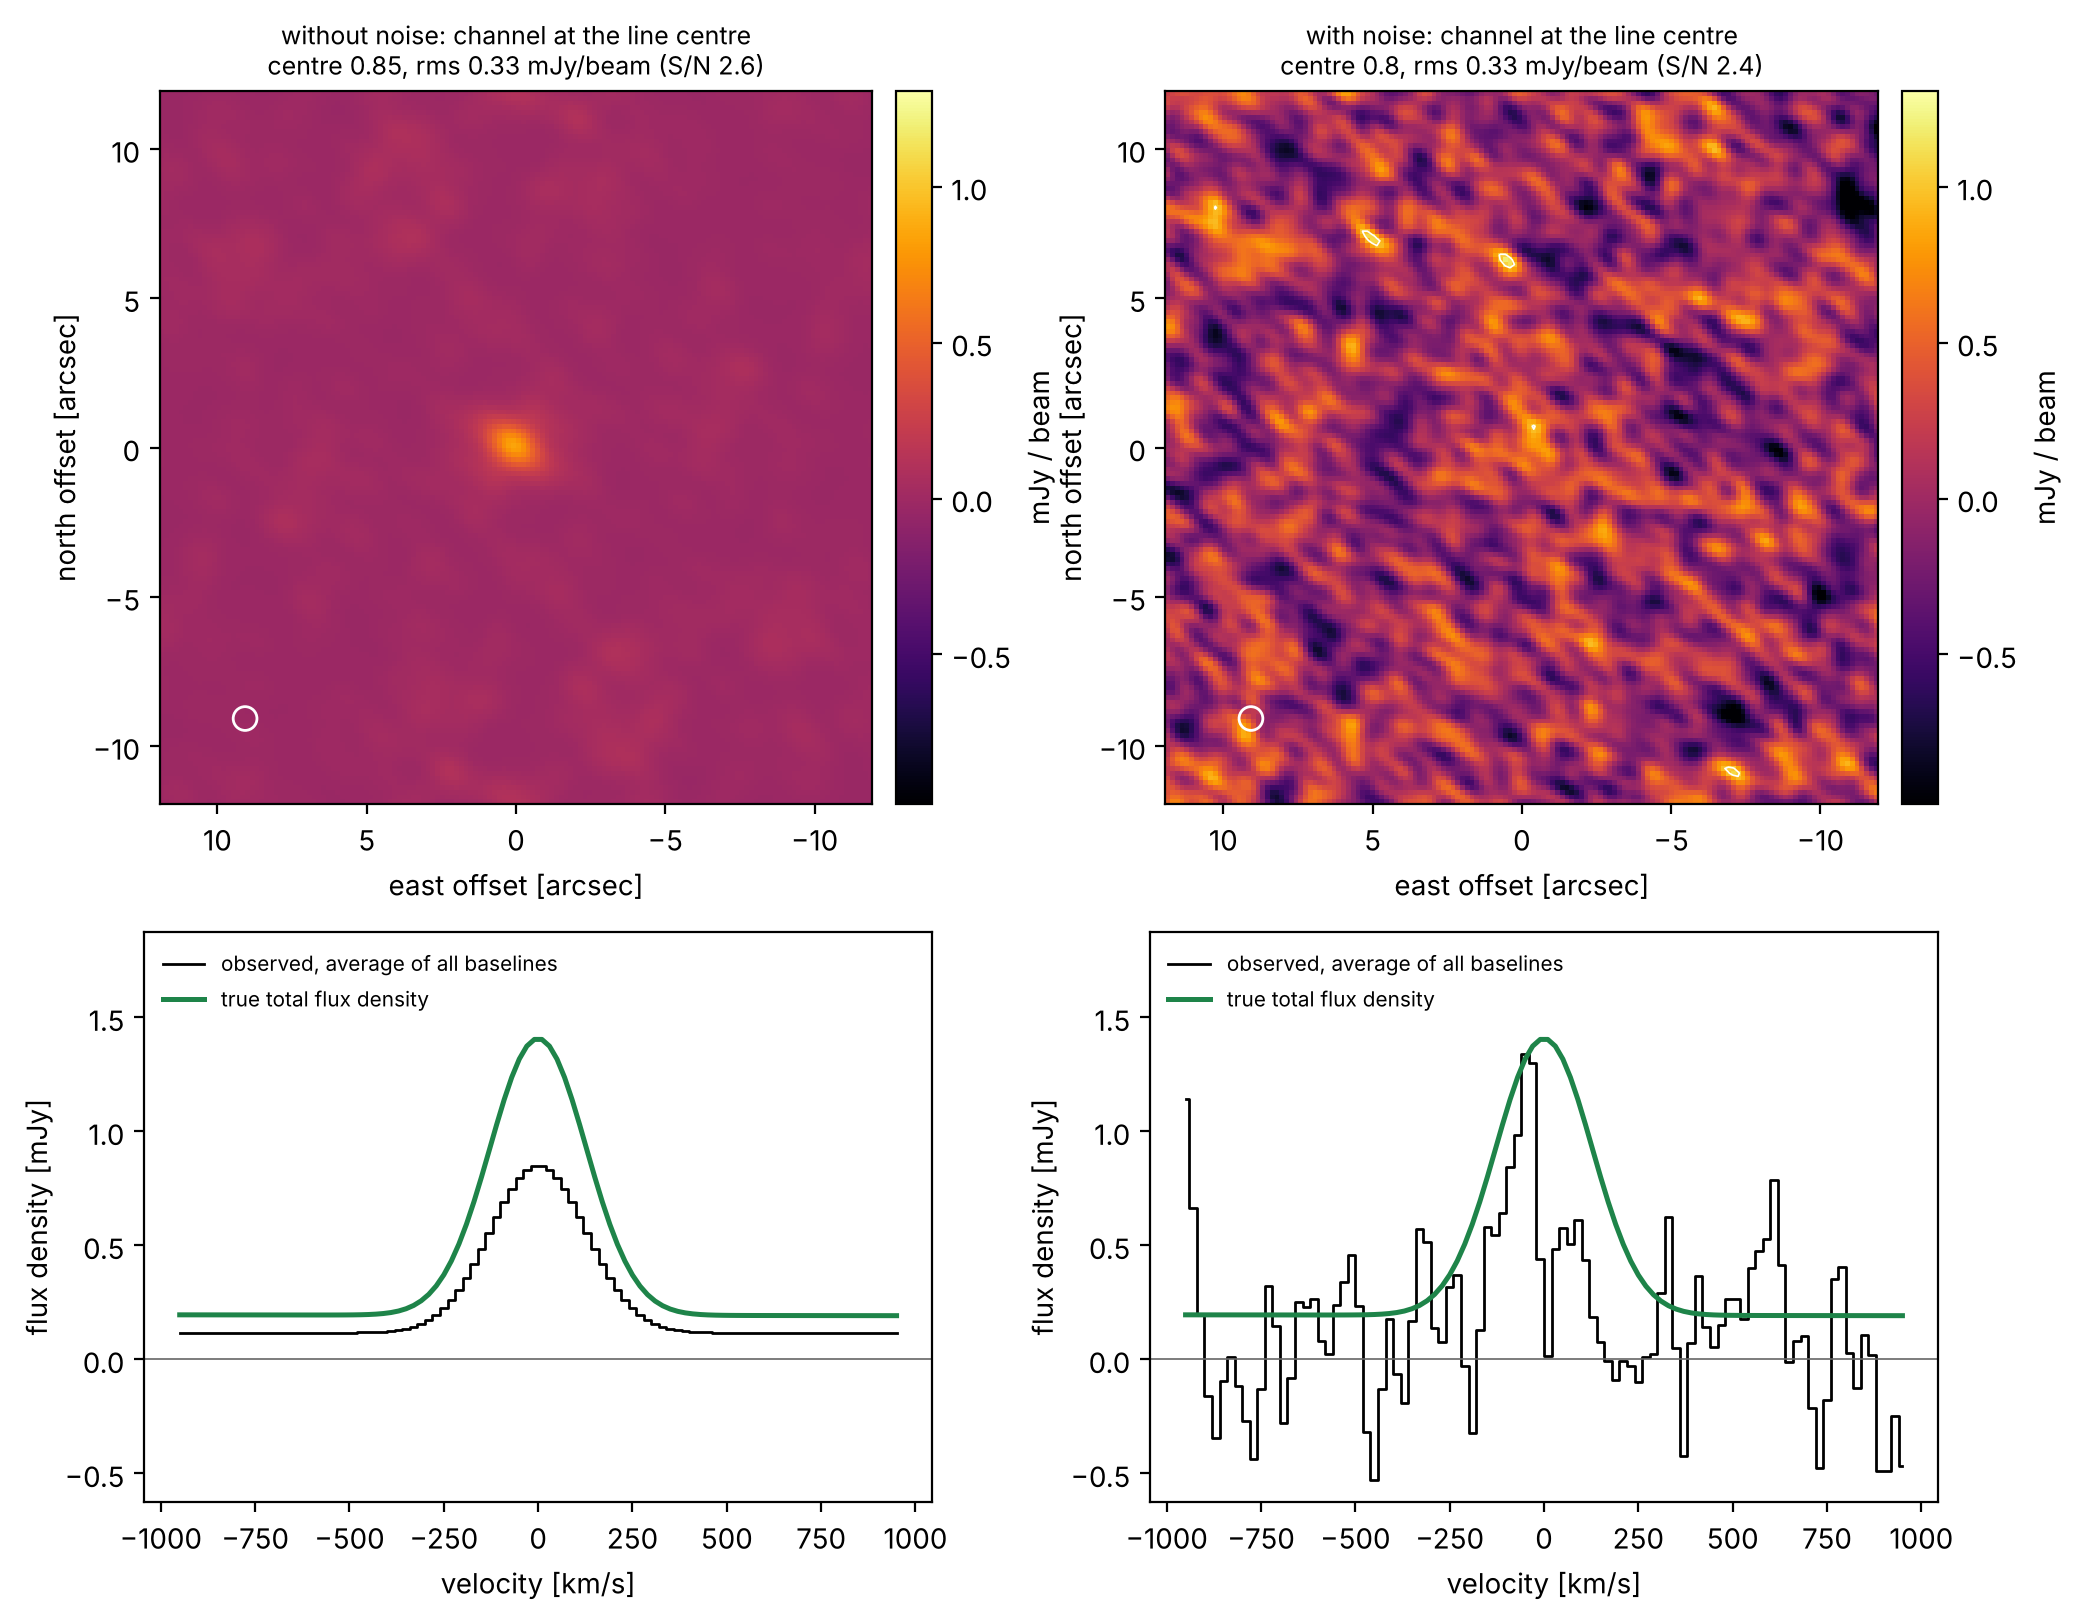
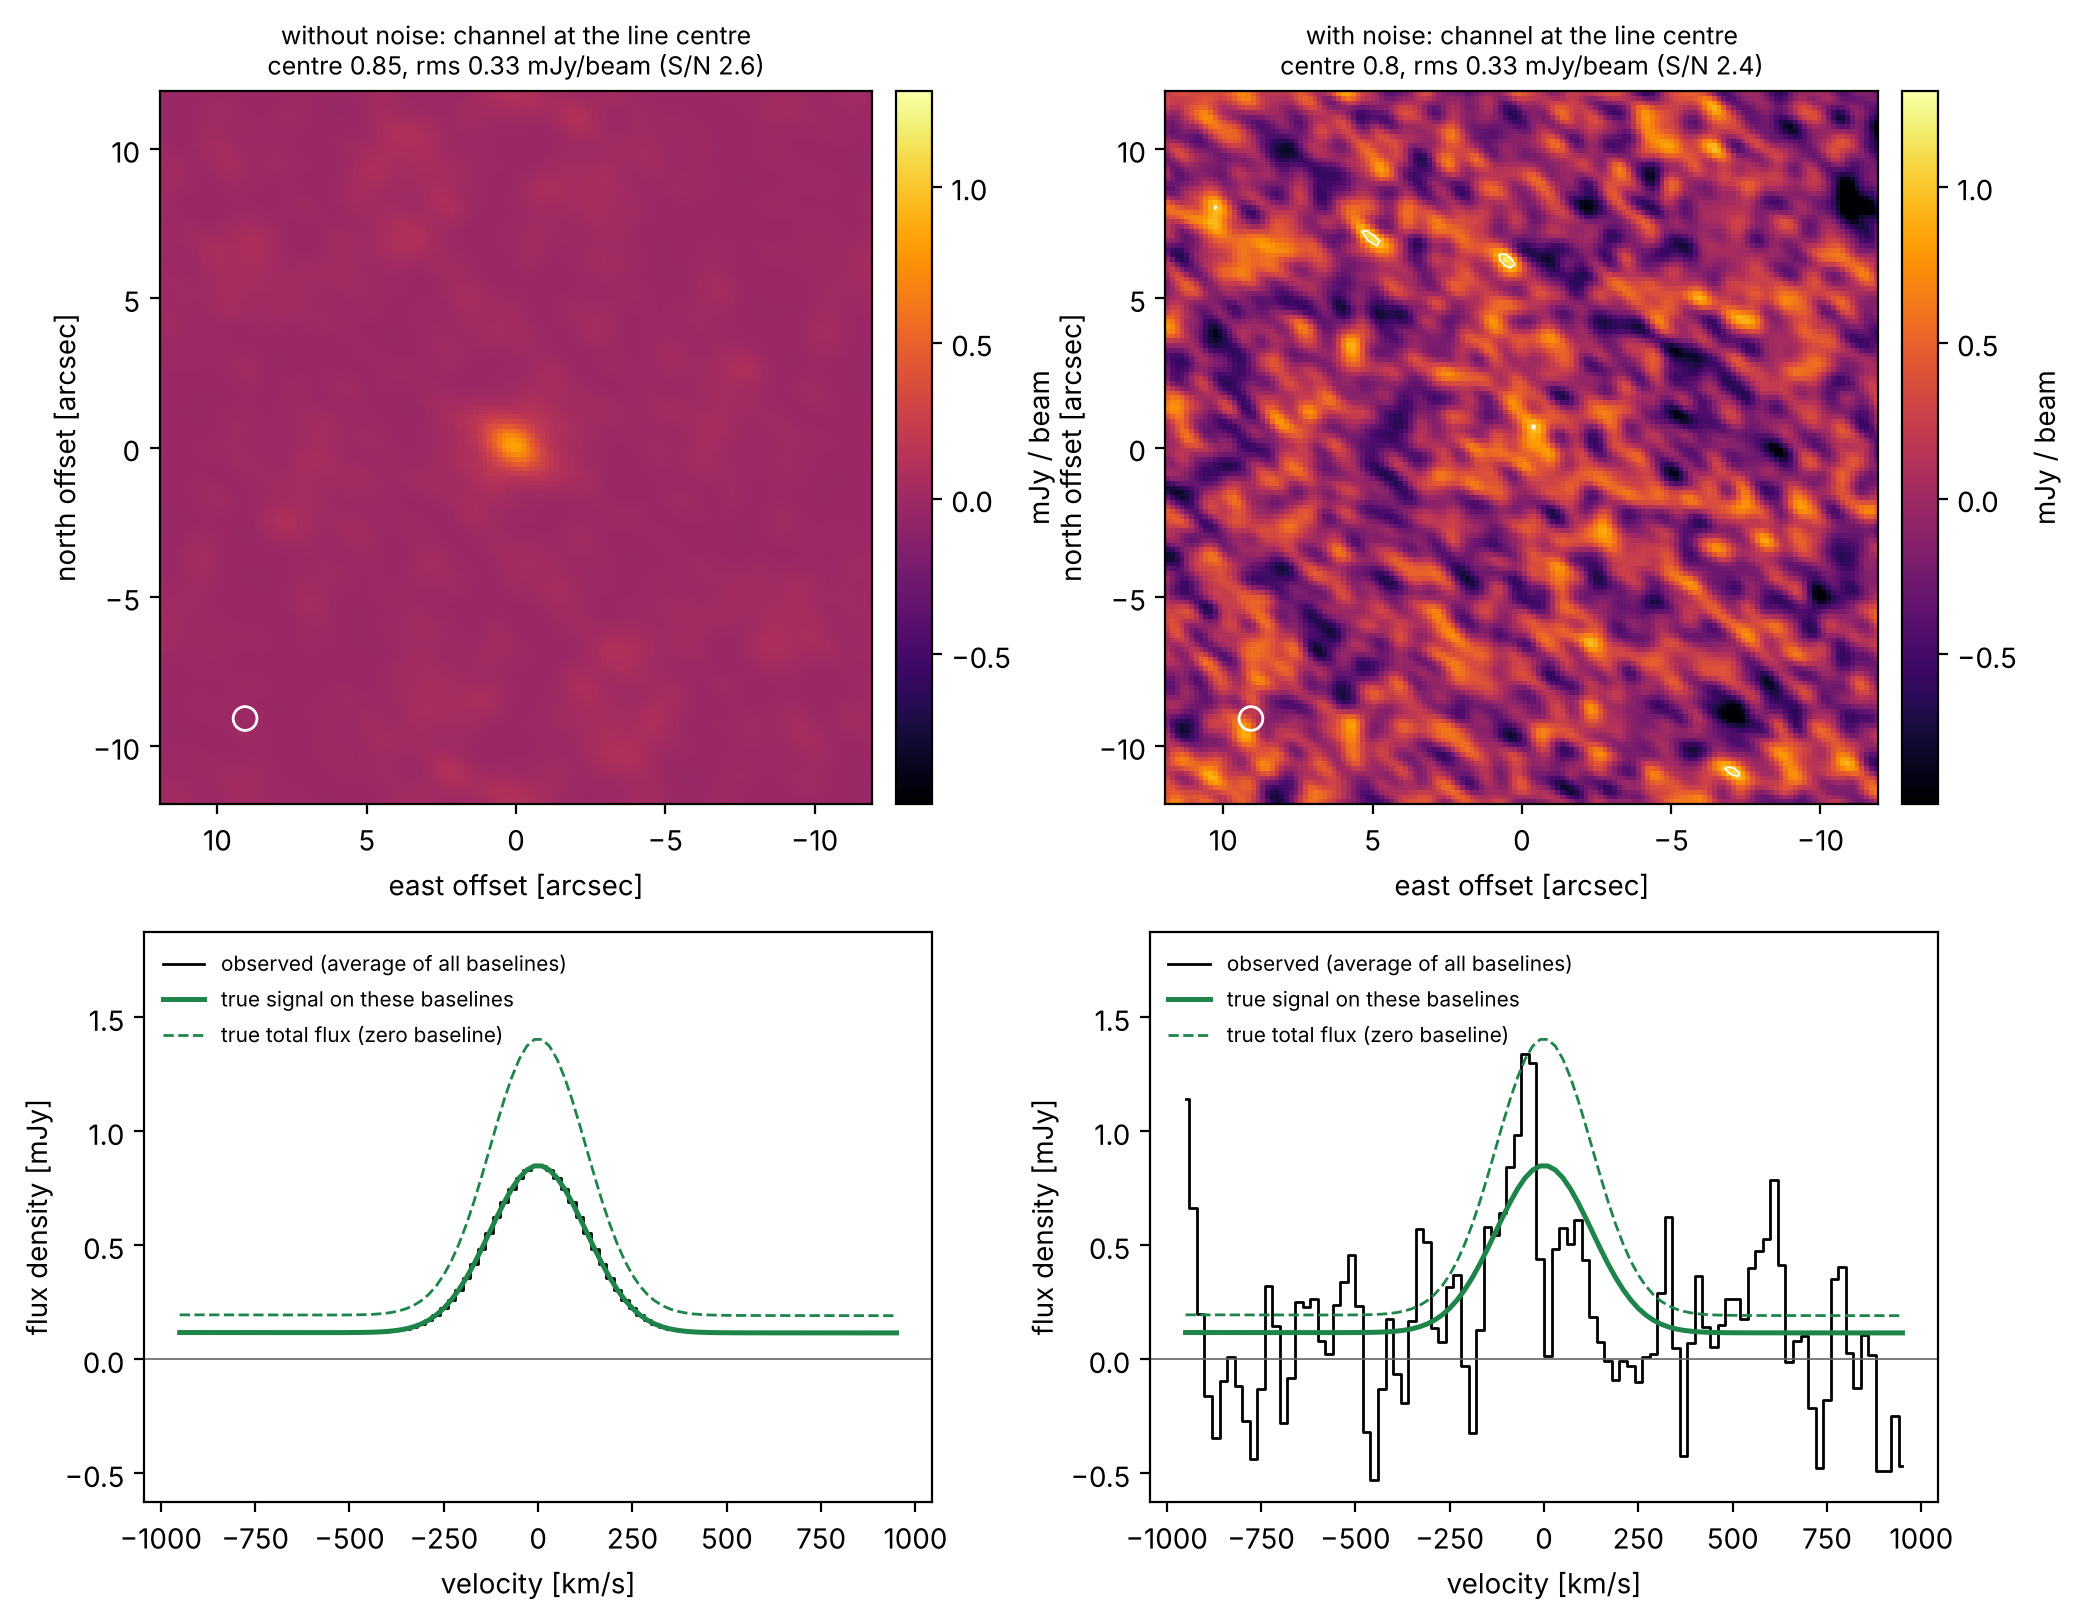
Tutorial: single-galaxy figure shows the signal on these baselines and the total flux separately

diff --git a/examples/simulate.py b/examples/simulate.py
@@ -394,7 +394,10 @@ def plot_galaxy(clean, noisy, unit_factor=1e3):
     (``clean``, a record of ``make_ms(..., noiseless=True)``) and with it
     (``noisy``): the image of the channel at the line centre, and below it
     the spectrum at the position of the galaxy (the visibilities averaged
-    over the baselines), with the true line."""
+    over the baselines).  In green the true signal: as these baselines see
+    it (solid: what the data scatter around) and its total flux (dashed:
+    higher when the source is extended, because the long baselines see only
+    part of it)."""
     import matplotlib.pyplot as plt
     from vista.quicklook import plot_image
     fig, axes = plt.subplots(2, 2, figsize=(10.5, 8.2), gridspec_kw={"height_ratios": [1.25, 1]})
@@ -409,9 +412,11 @@ def plot_galaxy(clean, noisy, unit_factor=1e3):
         ax = axes[1, j]
         o = np.argsort(sp["v"])
         ax.step(sp["v"][o], sp["mean"][o] * unit_factor, where="mid", color="k", lw=1,
-                label="observed, average of all baselines")
-        ax.plot(sp["v"][o], sp["total"][o] * unit_factor, color="#1e8449", lw=1.8,
-                label="true total flux density")
+                label="observed (average of all baselines)")
+        ax.plot(sp["v"][o], sp["expected"][o] * unit_factor, color="#1e8449", lw=1.8,
+                label="true signal on these baselines")
+        ax.plot(sp["v"][o], sp["total"][o] * unit_factor, color="#1e8449", lw=1.0, ls="--",
+                label="true total flux (zero baseline)")
         ax.axhline(0, color="0.4", lw=0.6)
         ax.set_xlabel("velocity [km/s]")
         ax.set_ylabel("flux density [mJy]")

diff --git a/docs/examples/13_a_harder_case_two_lines_in.md b/docs/examples/13_a_harder_case_two_lines_in.md
@@ -20,11 +20,11 @@ first_only.plot("profile")
 ```
 
 ```text
-[ViSta      26.7s] WARNING: measure: the real part in the line-free channels scatters 1.31 x the noise of the visibilities: residual continuum or baseline effects, the thermal errors are optimistic there
+[ViSta      23.5s] WARNING: measure: the real part in the line-free channels scatters 1.31 x the noise of the visibilities: residual continuum or baseline effects, the thermal errors are optimistic there
 ```
 
 ```text
-[ViSta      26.7s] z_ref = 2.2867 (median of the sample)
+[ViSta      23.5s] z_ref = 2.2867 (median of the sample)
 ```
 
 ```{image} figures/13_01.png
@@ -44,11 +44,11 @@ print(both)
 ```
 
 ```text
-[ViSta      17.1s] WARNING: measure: line 2: its window overlaps line(s) 1, so its area flux holds part of them (+8.5 sigma from the Gaussian flux); the Gaussian flux of the joint fit separates them, and is quoted
+[ViSta      17.8s] WARNING: measure: line 2: its window overlaps line(s) 1, so its area flux holds part of them (+8.5 sigma from the Gaussian flux); the Gaussian flux of the joint fit separates them, and is quoted
 ```
 
 ```text
-Stack      two.zarr: 433,440 rows, 140 channels, 9 s
+Stack      two.zarr: 433,440 rows, 140 channels, 8 s
 Line 1     345.796 GHz, 12 sources: detected at 37.3 sigma (S/N 37.4, searched over centre and width)
   flux     0.4021 ± 0.021 Jy km/s, the area of the Gaussian fit
            because the area agrees with the Gaussian (+1.9 sigma)

diff --git a/docs/examples/01_the_simulator_and_one_galaxy.md b/docs/examples/01_the_simulator_and_one_galaxy.md
@@ -38,13 +38,18 @@ noisy = simulate.make_ms("one_noisy.ms", **galaxy)                     # as obse
 `simulate.plot_galaxy` shows them side by side. **Top**: the image of the
 channel at the centre of the line (a *dirty* image: the Fourier transform of
 the visibilities as they are; the circle is the resolution). **Bottom**: the
-spectrum at the position of the galaxy, and in green the true line on its
-continuum.
+spectrum at the position of the galaxy (black), the average of all the
+baselines.
 
-Without noise the galaxy is there, at the centre. The observed spectrum is
-below the true one because the source is extended: the long baselines see
-only part of it. With the noise of a real observation neither the image nor
-the spectrum show it: this is the galaxy that stacking is for.
+Two green curves give the true signal. The **solid** one is what these
+baselines should see: without noise the black spectrum lies exactly on it.
+The **dashed** one is the total flux of the galaxy, higher: the source is
+extended (0.8″), and the long baselines see only part of it. The total flux
+is what a baseline of zero length would measure, and what ViSta estimates by
+fitting how the flux falls with the baseline length (§4).
+
+With the noise of a real observation neither the image nor the spectrum
+show the galaxy clearly: this is the galaxy that stacking is for.
 
 ```python
 simulate.plot_galaxy(clean, noisy)

diff --git a/docs/examples/11_a_harder_case_a_line_that_is.md b/docs/examples/11_a_harder_case_a_line_that_is.md
@@ -20,15 +20,15 @@ print(wings)
 ```
 
 ```text
-[ViSta      17.6s] WARNING: measure: the line is not Gaussian (double peak, wings?): the area and the Gaussian flux differ by +2.4 sigma; the area in the window is quoted
+[ViSta      14.9s] WARNING: measure: the line is not Gaussian (double peak, wings?): the area and the Gaussian flux differ by +2.4 sigma; the area in the window is quoted
 ```
 
 ```text
-[ViSta      17.6s] z_ref = 2.5250 (median of the sample)
+[ViSta      14.9s] z_ref = 2.5250 (median of the sample)
 ```
 
 ```text
-Stack      wings.zarr: 433,440 rows, 140 channels, 11 s
+Stack      wings.zarr: 433,440 rows, 140 channels, 8 s
 Line       345.796 GHz, 12 sources: detected at 48.7 sigma (S/N 48.8, searched over centre and width)
   flux     0.6295 ± 0.045 Jy km/s, the area under the spectrum in the window
            because the area and the Gaussian fit differ by +2.4 sigma: the line is not a Gaussian
@@ -66,7 +66,7 @@ vista.compare({"flux_measure='auto'": wings, "flux_measure='gauss'": wings_gauss
 ```
 
 ```text
-[ViSta      15.5s] WARNING: measure: the line is not Gaussian (double peak, wings?): the area and the Gaussian flux differ by +2.4 sigma; quoted: gauss (flux_measure='gauss')
+[ViSta      15.3s] WARNING: measure: the line is not Gaussian (double peak, wings?): the area and the Gaussian flux differ by +2.4 sigma; quoted: gauss (flux_measure='gauss')
 ```
 
 ```text

diff --git a/docs/examples/09_the_errors.md b/docs/examples/09_the_errors.md
@@ -31,11 +31,11 @@ vista.compare({"noise from the data (default)": r, "noise from the weights": fro
 ```
 
 ```text
-[ViSta      13.9s] WARNING: measure: the imaginary part scatters 1.20 x the noise of the visibilities: centring or calibration effects, the thermal errors are optimistic there
+[ViSta      12.8s] WARNING: measure: the imaginary part scatters 1.20 x the noise of the visibilities: centring or calibration effects, the thermal errors are optimistic there
 ```
 
 ```text
-[ViSta      13.9s] WARNING: measure: the real part in the line-free channels scatters 1.32 x the noise of the visibilities: residual continuum or baseline effects, the thermal errors are optimistic there
+[ViSta      12.8s] WARNING: measure: the real part in the line-free channels scatters 1.32 x the noise of the visibilities: residual continuum or baseline effects, the thermal errors are optimistic there
 ```
 
 ```text

diff --git a/docs/examples/10_the_continuum.md b/docs/examples/10_the_continuum.md
@@ -27,7 +27,7 @@ left.plot("profile")
 ```
 
 ```text
-[ViSta      13.1s] WARNING: measure: continuum in the data (not subtracted) outside the line windows: offset 0.000149 +- 4.9e-05 (+3.0 sigma, +10% of the line peak), slope 2.48e-05 +- 6.1e-05 per 1000 km/s (+0.4 sigma).  Subtract it (the default) or fit it with the lines (stack(..., continuum='fit')): as it is, the line fluxes include it
+[ViSta      10.8s] WARNING: measure: continuum in the data (not subtracted) outside the line windows: offset 0.000149 +- 4.9e-05 (+3.0 sigma, +10% of the line peak), slope 2.48e-05 +- 6.1e-05 per 1000 km/s (+0.4 sigma).  Subtract it (the default) or fit it with the lines (stack(..., continuum='fit')): as it is, the line fluxes include it
 ```
 
 ```{image} figures/10_02.png

diff --git a/docs/examples/14_the_command_line.md b/docs/examples/14_the_command_line.md
@@ -12,11 +12,11 @@ PYTHONPATH={REPO} python -m vista --input sample/input_list.txt --output-name cl
 ```
 
 ```text
-[ViSta      14.2s] z_ref = 2.2867 (median of the sample)
+[ViSta      12.7s] z_ref = 2.2867 (median of the sample)
 ```
 
 ```text
-Stack      cli/stack.zarr: 433,440 rows, 90 channels, 7 s
+Stack      cli/stack.zarr: 433,440 rows, 90 channels, 8 s
 Line       345.796 GHz, 12 sources: detected at 11.4 sigma (S/N 11.8, searched over centre and width)
   flux     0.3656 ± 0.054 Jy km/s, the area of the Gaussian fit
            because the area agrees with the Gaussian (-0.5 sigma)

diff --git a/docs/examples/05_refining_the_window.md b/docs/examples/05_refining_the_window.md
@@ -51,7 +51,7 @@ vista.compare({"window ±500": wide, "window ±320": r, "window ±120": narrow},
 ```
 
 ```text
-[ViSta      12.8s] WARNING: measure: the line: the area flux differs from the Gaussian by -2.7 sigma, but the window holds only 70% of the fitted line: widen the window (the Gaussian flux is quoted)
+[ViSta      12.3s] WARNING: measure: the line: the area flux differs from the Gaussian by -2.7 sigma, but the window holds only 70% of the fitted line: widen the window (the Gaussian flux is quoted)
 ```
 
 ```text

diff --git a/docs/examples/07_the_normalisations.md b/docs/examples/07_the_normalisations.md
@@ -20,7 +20,7 @@ vista.compare({"z_norm=True (default)": r, "z_norm=False": no_z}, expected=expec
 ```
 
 ```text
-[ViSta      12.5s] no redshift rescaling, no flux normalisation
+[ViSta      11.7s] no redshift rescaling, no flux normalisation
 ```
 
 ```text
@@ -47,7 +47,7 @@ vista.compare({"pb_corr=True (default)": r, "pb_corr=False": no_pb}, expected=ex
 ```
 
 ```text
-[ViSta      13.5s] z_ref = 2.2867 (median of the sample)
+[ViSta      12.7s] z_ref = 2.2867 (median of the sample)
 ```
 
 ```text

diff --git a/docs/examples/03_the_stack.md b/docs/examples/03_the_stack.md
@@ -21,7 +21,7 @@ v.run()
 ```
 
 ```text
-Stack      stack.zarr: 433,440 rows, 90 channels, 6 s
+Stack      stack.zarr: 433,440 rows, 90 channels, 5 s
 ```
 
 **What stacking does, in an image.** `vista.dirty_image` makes the image of

diff --git a/docs/examples/12_a_harder_case_sources_that.md b/docs/examples/12_a_harder_case_sources_that.md
@@ -18,7 +18,7 @@ ring.plot("image")
 ```
 
 ```text
-[ViSta      17.5s] z_ref = 2.3959 (median of the sample)
+[ViSta      16.0s] z_ref = 2.3959 (median of the sample)
 ```
 
 ```{image} figures/12_01.png

diff --git a/docs/examples/04_the_measurement.md b/docs/examples/04_the_measurement.md
@@ -20,7 +20,7 @@ print(r)
 ```
 
 ```text
-[ViSta      12.3s] z_ref = 2.2867 (median of the sample)
+[ViSta      12.6s] z_ref = 2.2867 (median of the sample)
 ```
 
 ```text
